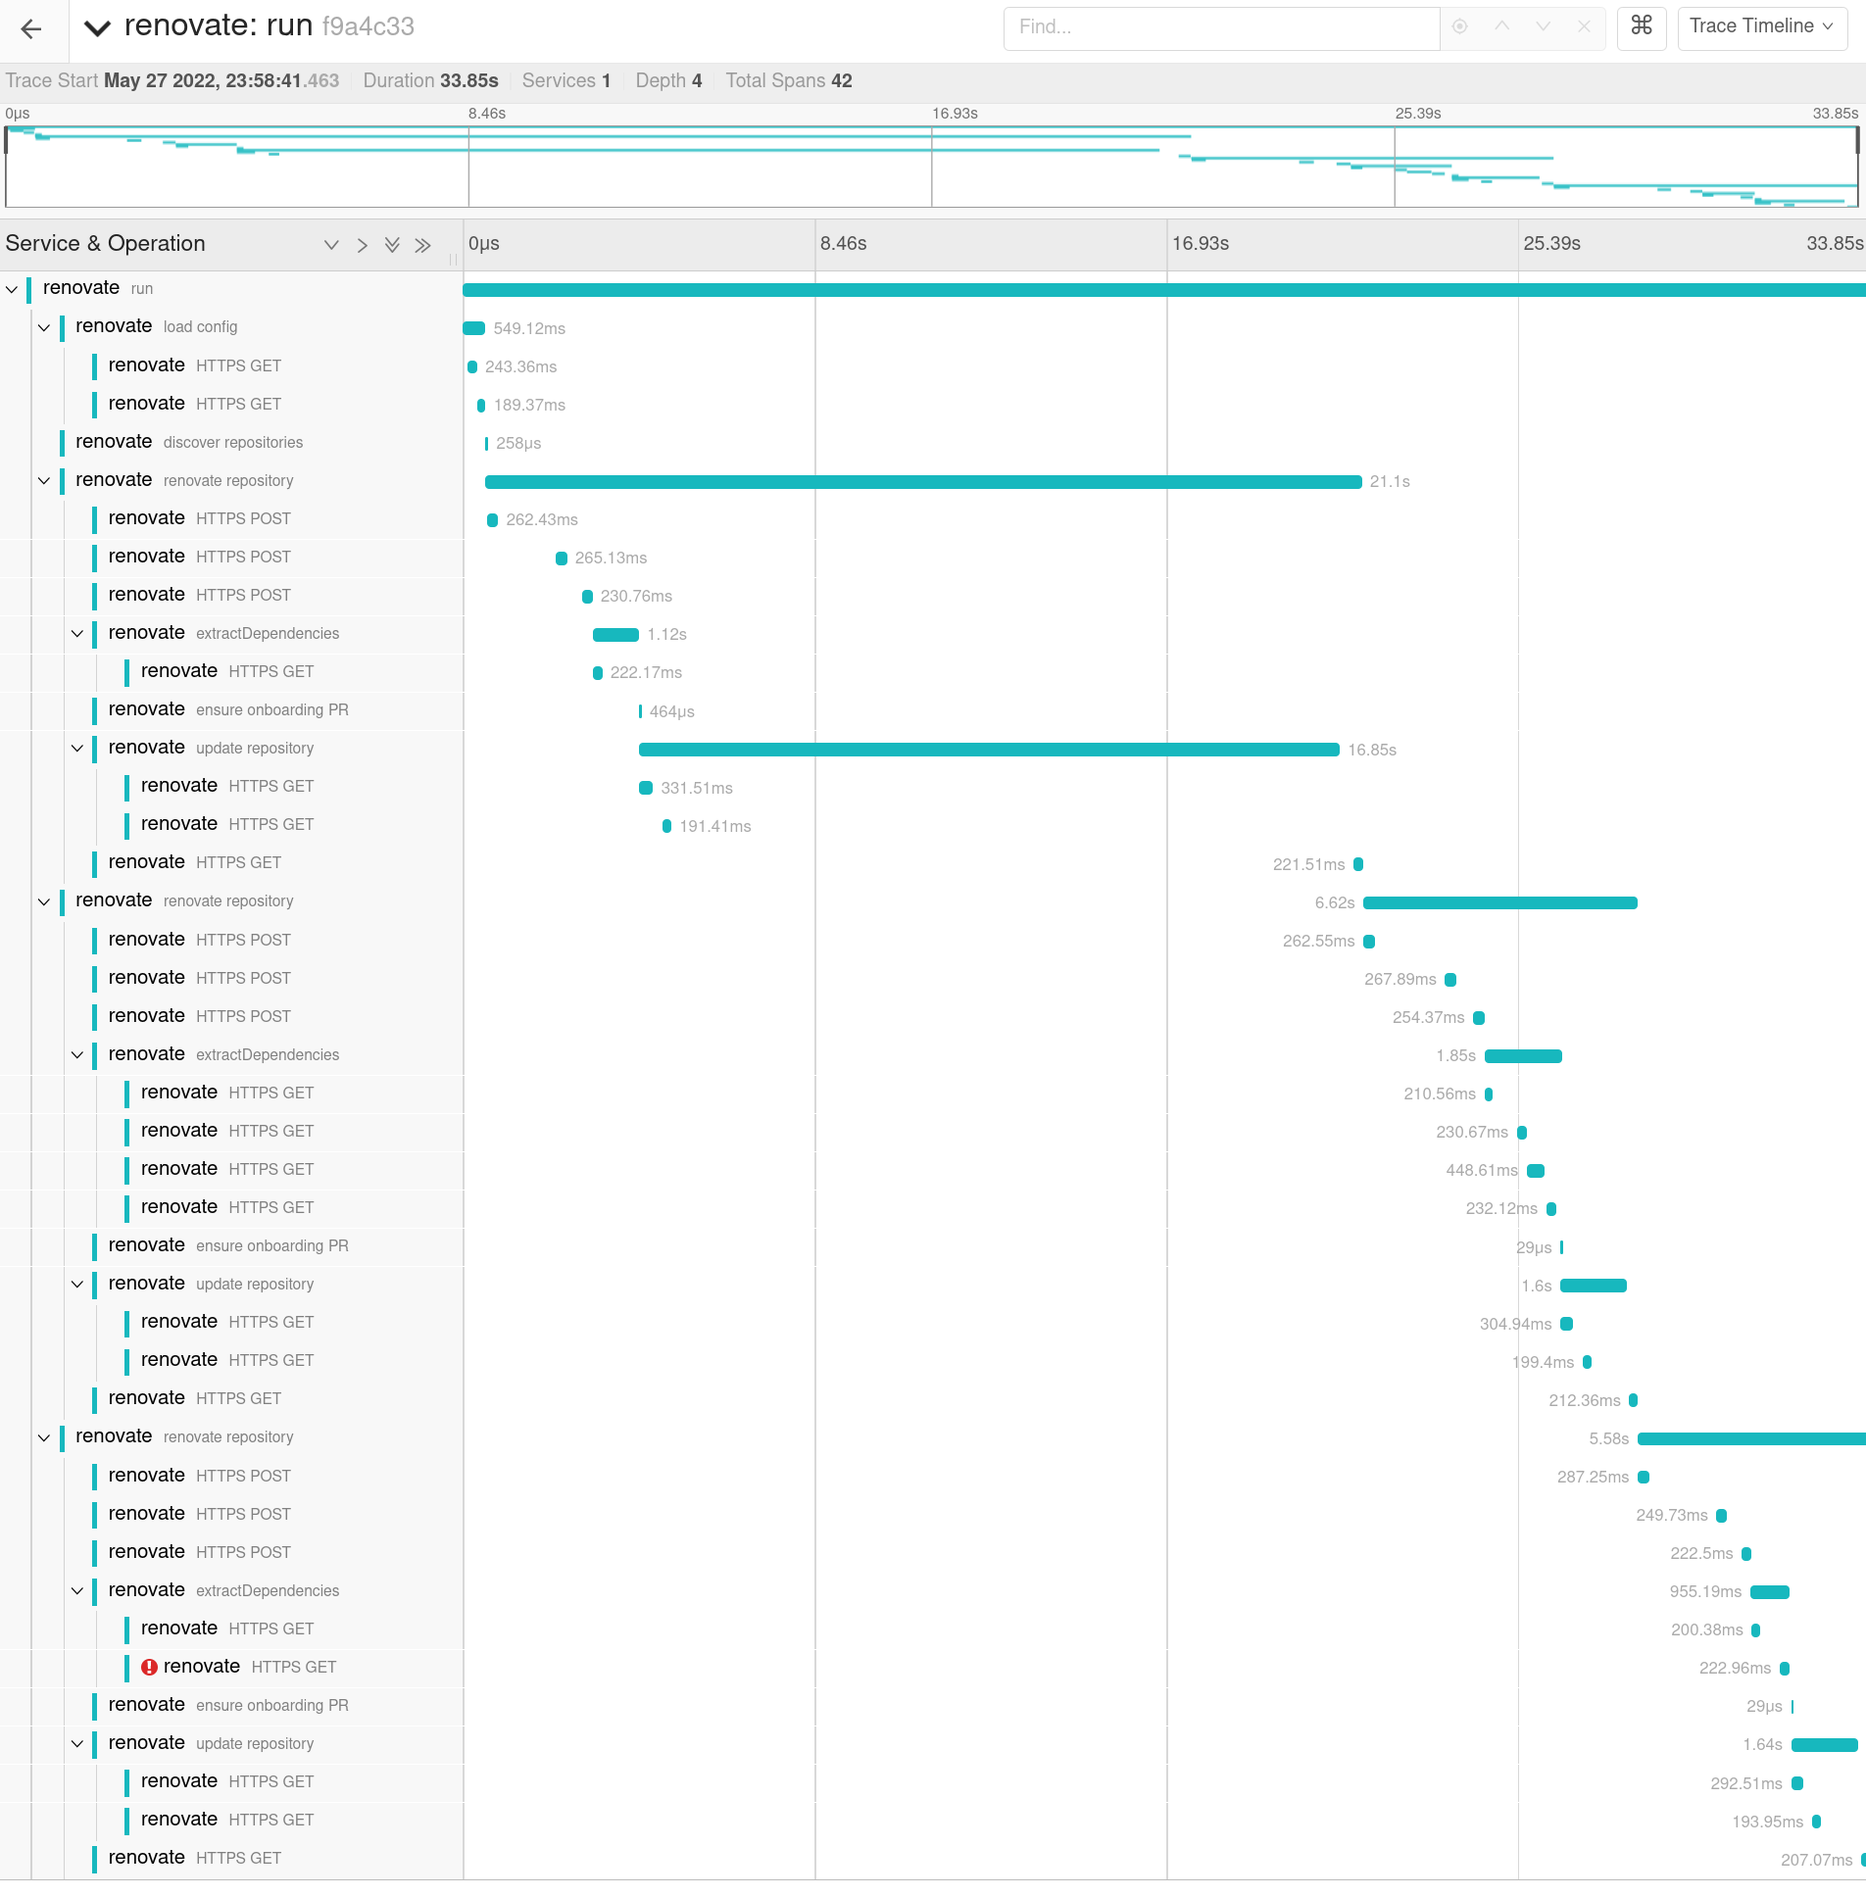
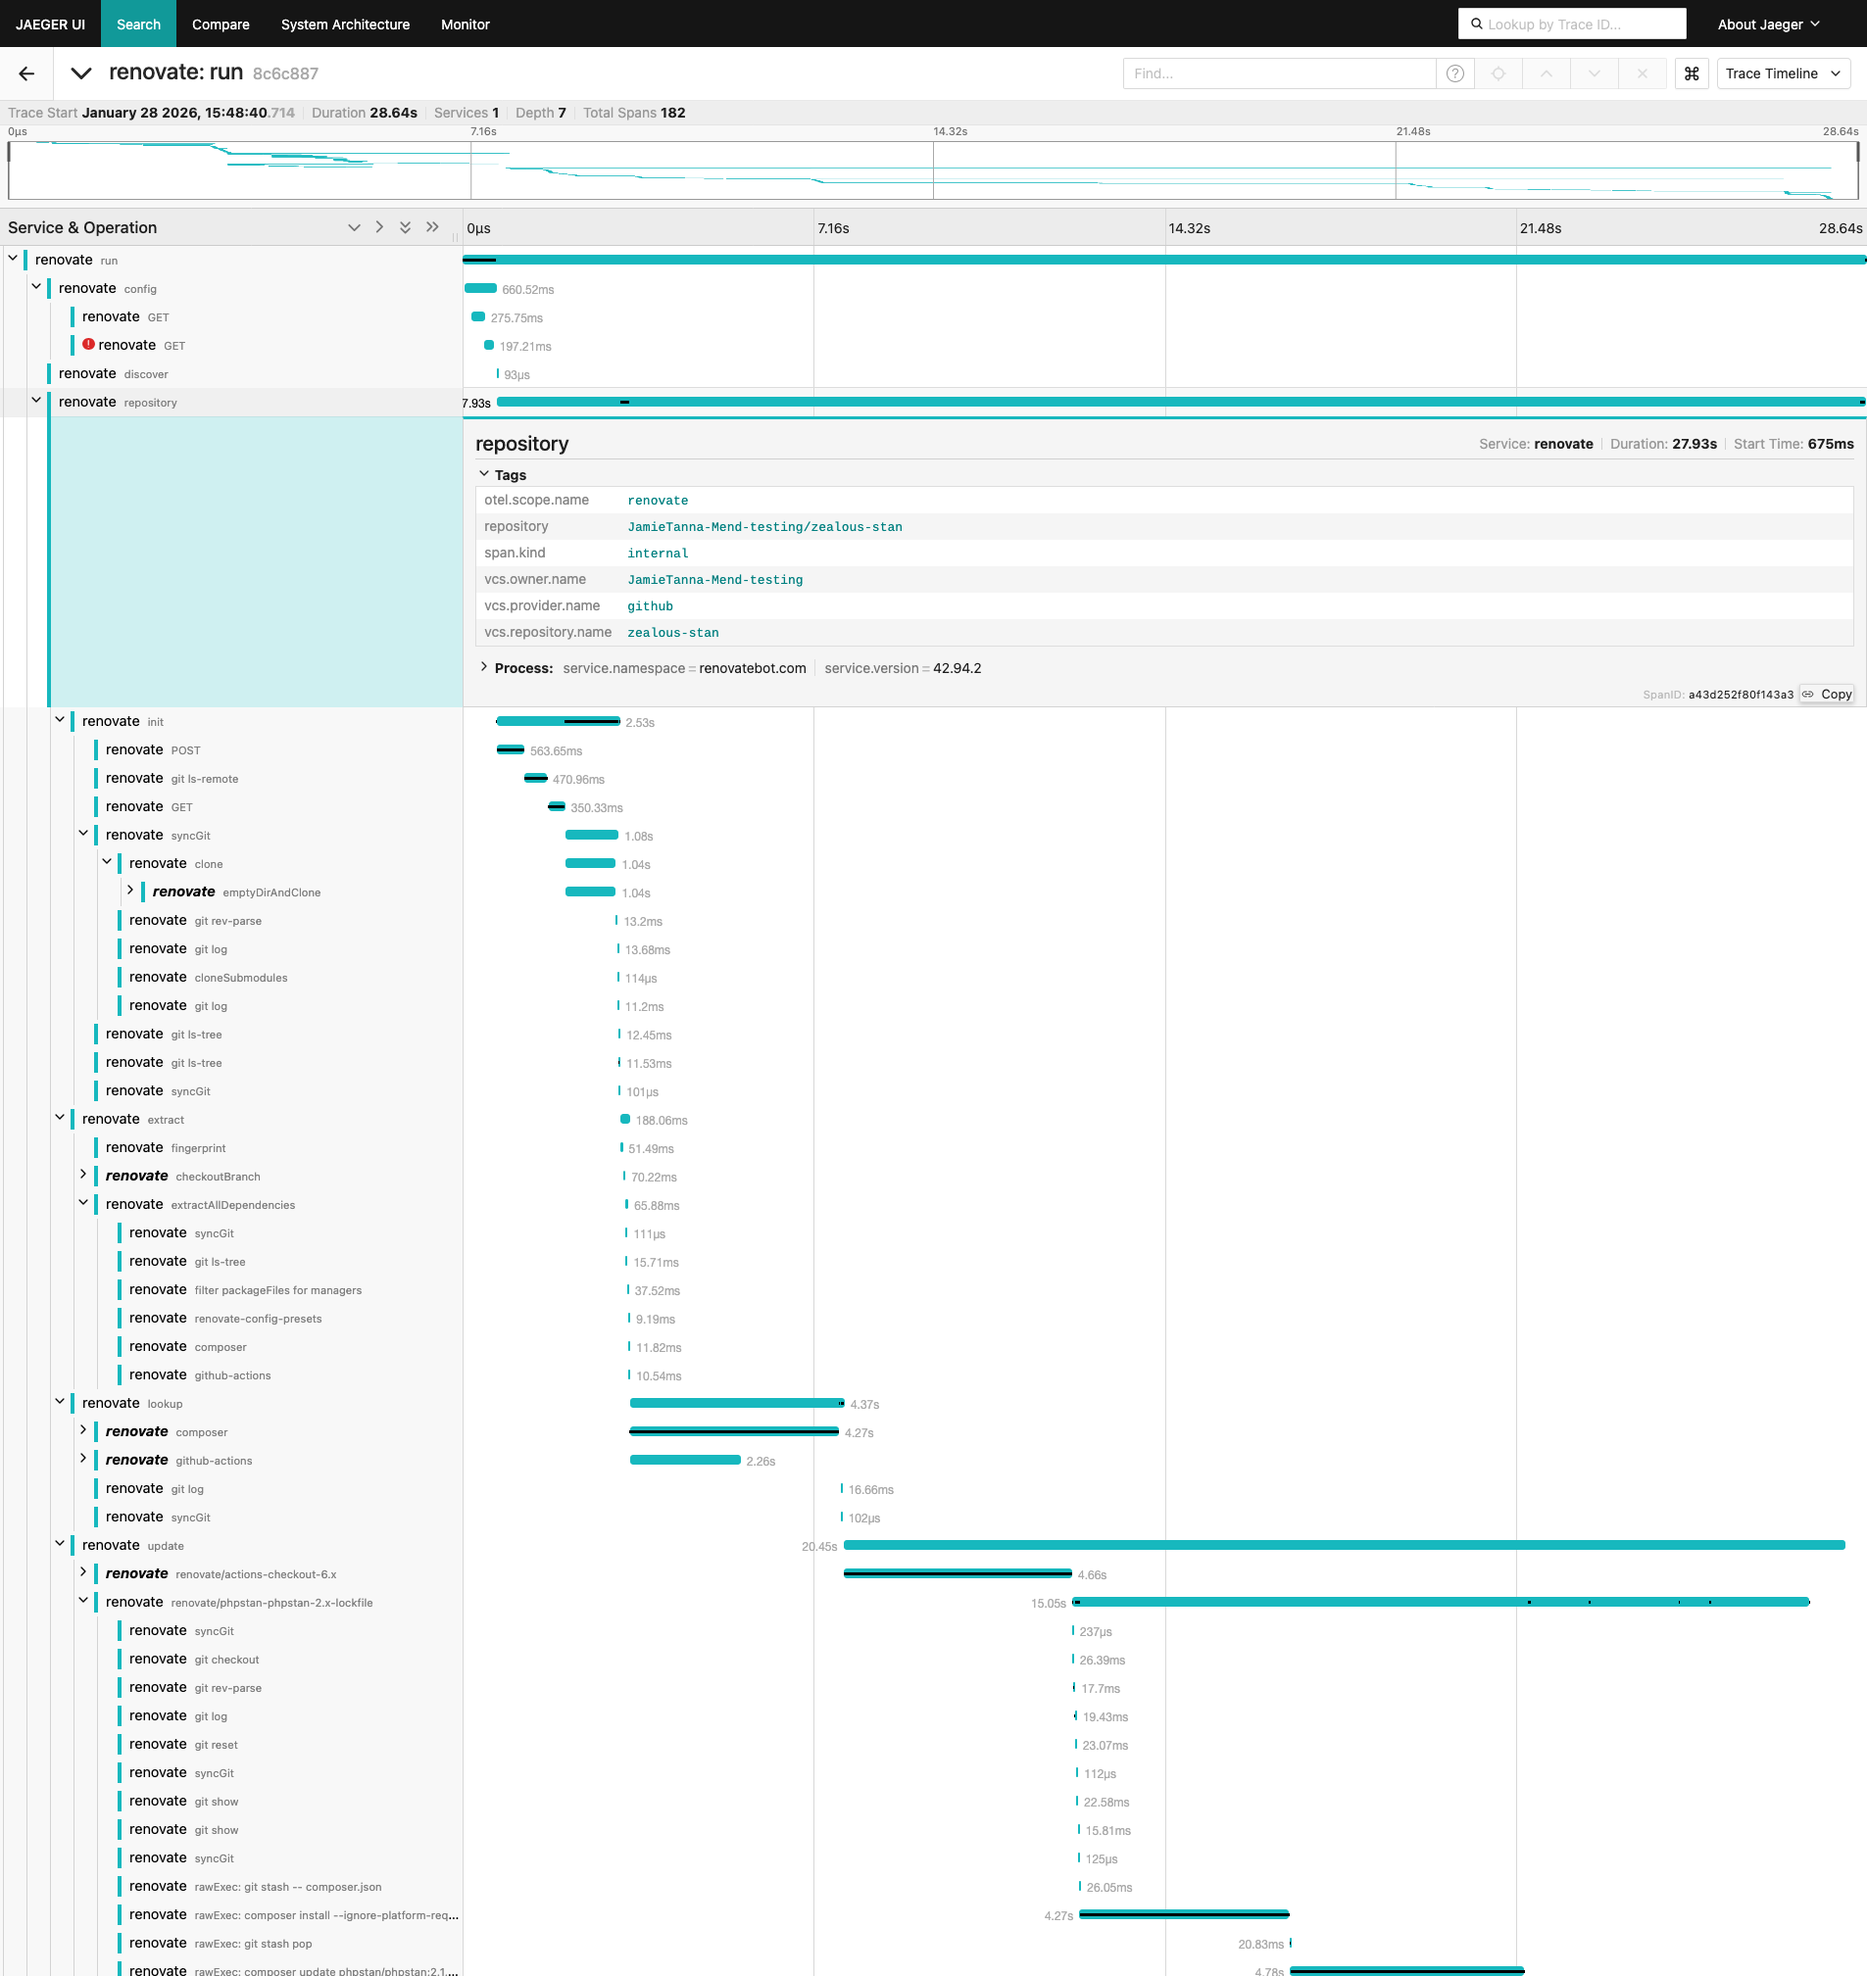
docs(opentelemetry): revamp documentation
As noted in #40126, after recent investment in OpenTelemetry support in
Renovate, we should update our documentation to provide a more visible
example of what this looks like, some of the different data that may be
present now, and clarify the stability status.

We can also point to npm packages, rather than the source GitHub repo,
for OpenTelemetry libraries.

diff --git a/docs/usage/opentelemetry.md b/docs/usage/opentelemetry.md
@@ -7,23 +7,32 @@ description: How to use OpenTelemetry with Renovate
 
 <!-- prettier-ignore -->
 !!! warning "This feature is flagged as experimental"
-    Experimental features might be changed or even removed at any time.
+    Experimental features might be changed at any time.
+    <br /> <br />
+    Renovate's OpenTelemetry support is stable enough to use in production, but there may be changes that rename attributes or fix bugs in a breaking, even in non-major version updates.
 
-Renovate partially supports OpenTelemetry, the emerging monitoring standard.
+Renovate supports the [OpenTelemetry](https://opentelemetry.io/) monitoring and observability standard.
 
-OpenTelemetry has three types of observability data:
+OpenTelemetry has three types of observability data it supports within the OpenTelemetry Protocol (OTLP):
 
 - traces
 - metrics
 - logs
 
-## Limitations
-
-While OTLP support traces, metrics, and logs, Renovate only supports traces.
-This means Renovate does not support other observability data like: stats on caching, error events, number of found updates, and so on.
+<!-- prettier-ignore -->
+!!! note
+    While the OpenTelemetry Protocol (OTLP) support traces, metrics, and logs, Renovate only supports traces, and some metrics.
+    <br /> <br />
+    This means Renovate does not support other observability data like: stats on caching, error events, number of found updates, and so on.
 
 Renovate uses [`@opentelemetry/exporter-trace-otlp-http`](https://www.npmjs.com/package/@opentelemetry/exporter-trace-otlp-http) under the hood.
 This means that Renovate sends traces via [OTLP/HTTP](https://opentelemetry.io/docs/reference/specification/protocol/otlp/#otlphttp) in JSON-encoded protobuf format only.
+
+## Examples
+
+![A screenshot of the Jaeger OpenTelemetry tracing UI, which shows an in-depth tracing view of a Renovate run against a single repository. The trace view shows the Renovate "splits", i.e. `init`, `extract`, `lookup` and `update` shown, with a view of how long each of the splits take overall. The trace view also shows HTTP calls, calls to the `git` command-line tools, some function names like `extractAllDependencies`, package manager names like `composer` or `github-actions` under the `extract` and `lookup` splits, and general execution of commands (prefixed by `rawExec:`. The view also shows that under the `update` split, there is a trace per branch, so we can see that the `renovate/actions-checkout-6.x` took less time to process than the `renovate/phpstan-phpstan-2.x-lockfile` branch.](assets/images/opentelemetry_trace_viewer.png)
+
+An example for setting up a local OpenTelemetry test setup with Docker can be found on [OpenTelemetry examples page](examples/opentelemetry.md).
 
 ## Usage
 
@@ -39,16 +48,46 @@ You can also set the following environment variables:
 The following resource detectors are used:
 
 - `EnvDetector` from @opentelemetry/resources to allow users to add the custom attributes
-- `GithubDetector` from [@opentelemetry/resource-detector-github](https://github.com/open-telemetry/opentelemetry-js-contrib/tree/main/packages/resource-detector-github) for the Github Action
-- `AWSDetector` from [@opentelemetry/resource-detector-aws](https://github.com/open-telemetry/opentelemetry-js-contrib/tree/main/packages/resource-detector-aws) Users hosting on AWS
-- `GcpDetector` from [@opentelemetry/resource-detector-gcp](https://github.com/open-telemetry/opentelemetry-js-contrib/tree/main/packages/resource-detector-gcp) Users hosting on GCP
-- `AzureDetector` from [@opentelemetry/resource-detector-azure](https://github.com/open-telemetry/opentelemetry-js-contrib/tree/main/packages/resource-detector-azure) Users hosting on Azure
+- `GithubDetector` from [@opentelemetry/resource-detector-github](https://www.npmjs.com/package/@opentelemetry/resource-detector-github), to determine if it's running in [Renovate's GitHub Action](https://github.com/renovatebot/github-action/), or via the npm package in GitHub Actions
+- `AWSDetector` from [@opentelemetry/resource-detector-aws](https://www.npmjs.com/package/@opentelemetry/resource-detector-aws) Users hosting on AWS
+- `GcpDetector` from [@opentelemetry/resource-detector-gcp](https://www.npmjs.com/package/@opentelemetry/resource-detector-gcp) Users hosting on GCP
+- `AzureDetector` from [@opentelemetry/resource-detector-azure](https://www.npmjs.com/package/@opentelemetry/resource-detector-azure) Users hosting on Azure
+
+## Supported OTLP data
+
+### Traces
+
+Renovate provides instrumentation through traces for (non-exhaustively):
+
+- HTTP requests, via [@opentelemetry/instrumentation-http](https://www.npmjs.com/package/@opentelemetry/instrumentation-http)
+- A trace for each "splits" Renovate performs - `init`, `extract`, `lookup` and `update`
+- Any command execution (`rawExec: ...`)
+- Any Git operations
+- Per-manager traces when performing the `lookup` and `extract` splits
+- Per-branch traces when performing the `update` split
+- Important functions (more instrumentation be added)
+
+As well as following [OpenTelemetry's semantic conventions](https://opentelemetry.io/docs/specs/semconv/) where possible, Renovate defines several Custom Attributes, which can be found in [`lib/instrumentation/types.ts`](https://github.com/renovatebot/renovate/blob/main/lib/instrumentation/types.ts).
+
+### Metrics
+
+Renovate does not currently support metrics in an OTLP format.
+
+However, as seen in the [OpenTelemetry examples page](examples/opentelemetry.md), it is possible to use the [spanmetrics connector](https://github.com/open-telemetry/opentelemetry-collector-contrib/tree/main/connector/spanmetricsconnector) to automagically generate metrics from the tracing support Renovate has.
+
+### Logs
+
+Renovate does not currently support logging in an OTLP format.
 
 ## Debugging
 
 To help you debug, you can print the telemetry to the console.
 Use the environment variable `RENOVATE_TRACING_CONSOLE_EXPORTER`.
 
-## Examples
+## Help wanted
 
-An example with a local OpenTelemetry setup can be found on the [OpenTelemetry examples](examples/opentelemetry.md) page.
+We're continually looking to improve Renovate's instrumentation, and are aware there may be gaps in instrumentation.
+
+As with the rest of Renovate, any additional contributions are very welcome!
+
+You can see our current planned TODO list using [the `core:instrumentation` label](https://github.com/renovatebot/renovate/issues?q=state%3Aopen%20label%3Acore%3Ainstrumentation).

diff --git a/docs/usage/examples/opentelemetry.md b/docs/usage/examples/opentelemetry.md
@@ -160,9 +160,9 @@ Select `Find Traces` to search for all Renovate traces and then select one of th
 
 ![pick trace](../assets/images/opentelemetry_choose_trace.png)
 
-You should be able to see now the full trace view which shows each HTTP request and internal spans.
+You should be able to see now the full trace view which shows more information about what is happening, such as HTTP requests, execution of commands or Git operations, and how long Renovate takes to process a given branch:
 
-![trace view](../assets/images/opentelemetry_trace_viewer.png)
+![A screenshot of the Jaeger OpenTelemetry tracing UI, which shows an in-depth tracing view of a Renovate run against a single repository. The trace view shows the Renovate "splits", i.e. `init`, `extract`, `lookup` and `update` shown, with a view of how long each of the splits take overall. The trace view also shows HTTP calls, calls to the `git` command-line tools, some function names like `extractAllDependencies`, package manager names like `composer` or `github-actions` under the `extract` and `lookup` splits, and general execution of commands (prefixed by `rawExec:`. The view also shows that under the `update` split, there is a trace per branch, so we can see that the `renovate/actions-checkout-6.x` took less time to process than the `renovate/phpstan-phpstan-2.x-lockfile` branch.](../assets/images/opentelemetry_trace_viewer.png)
 
 ### Metrics
 
